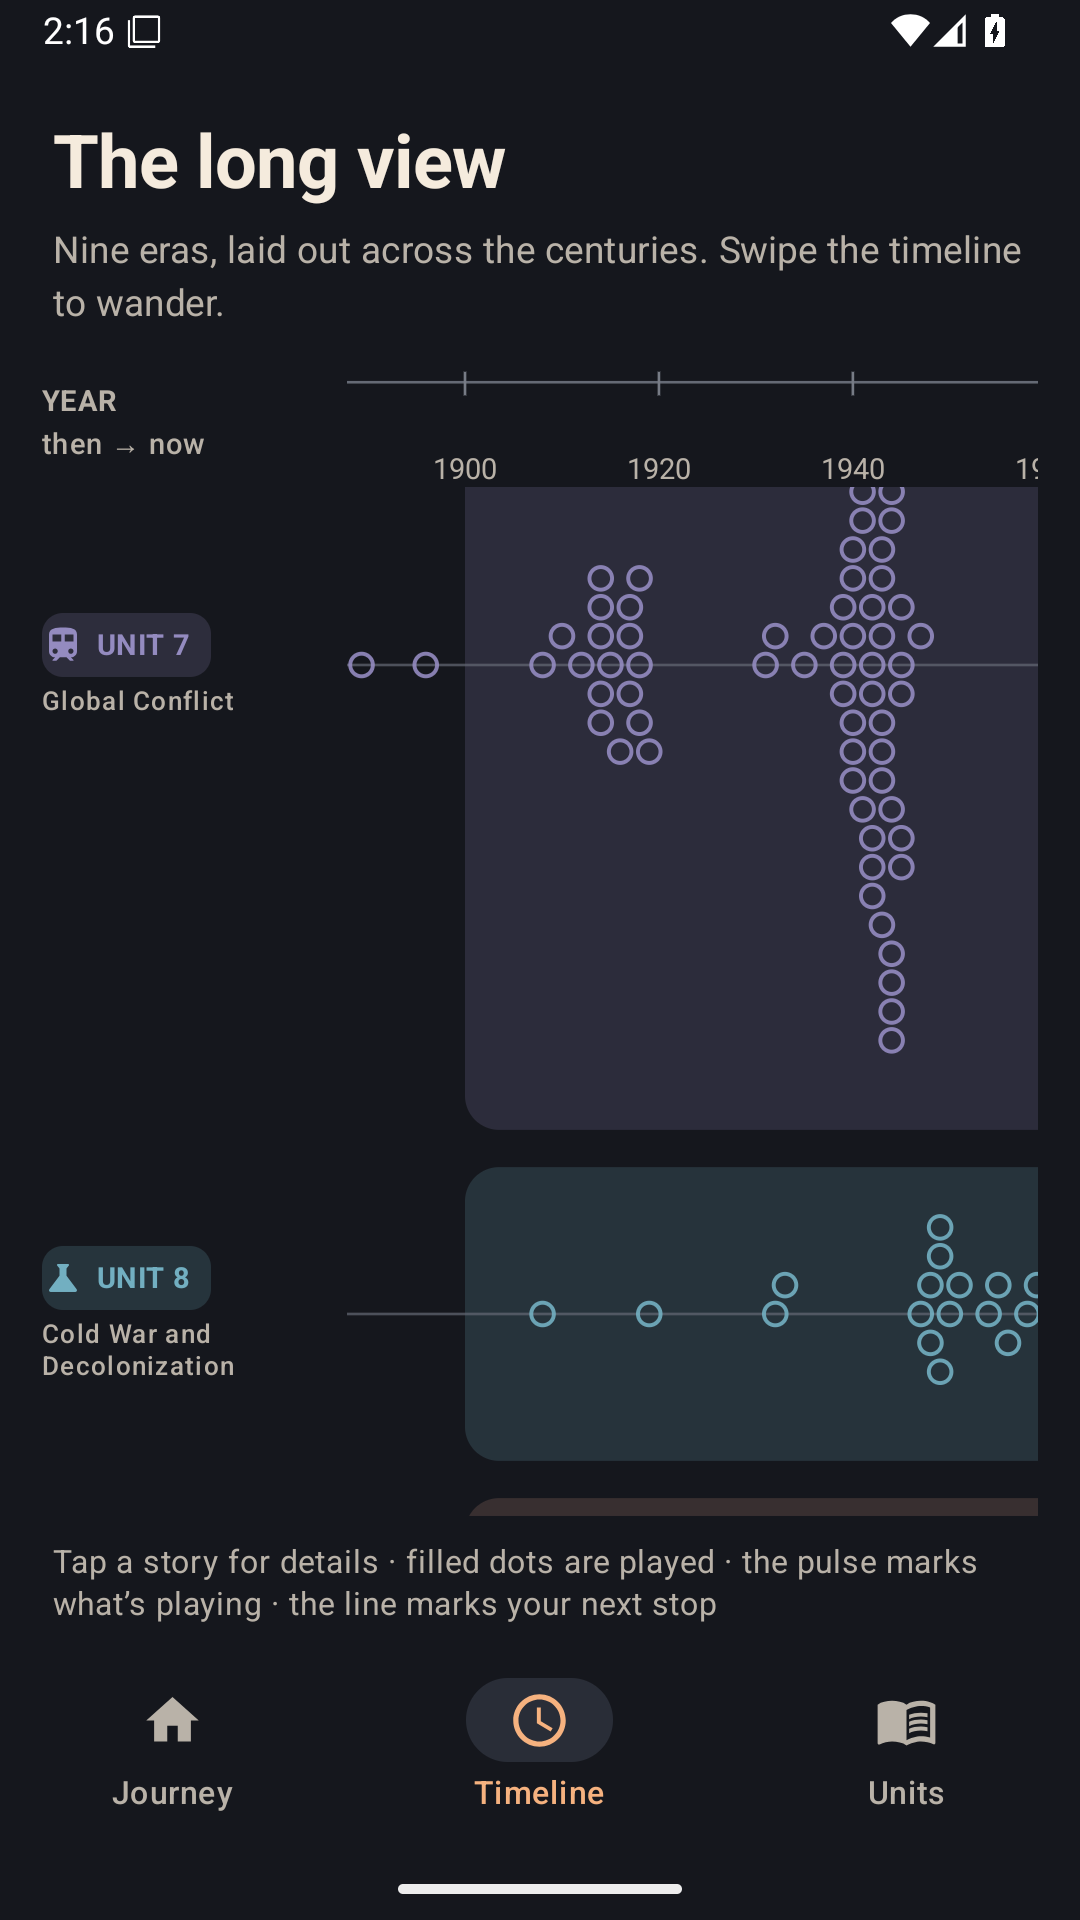
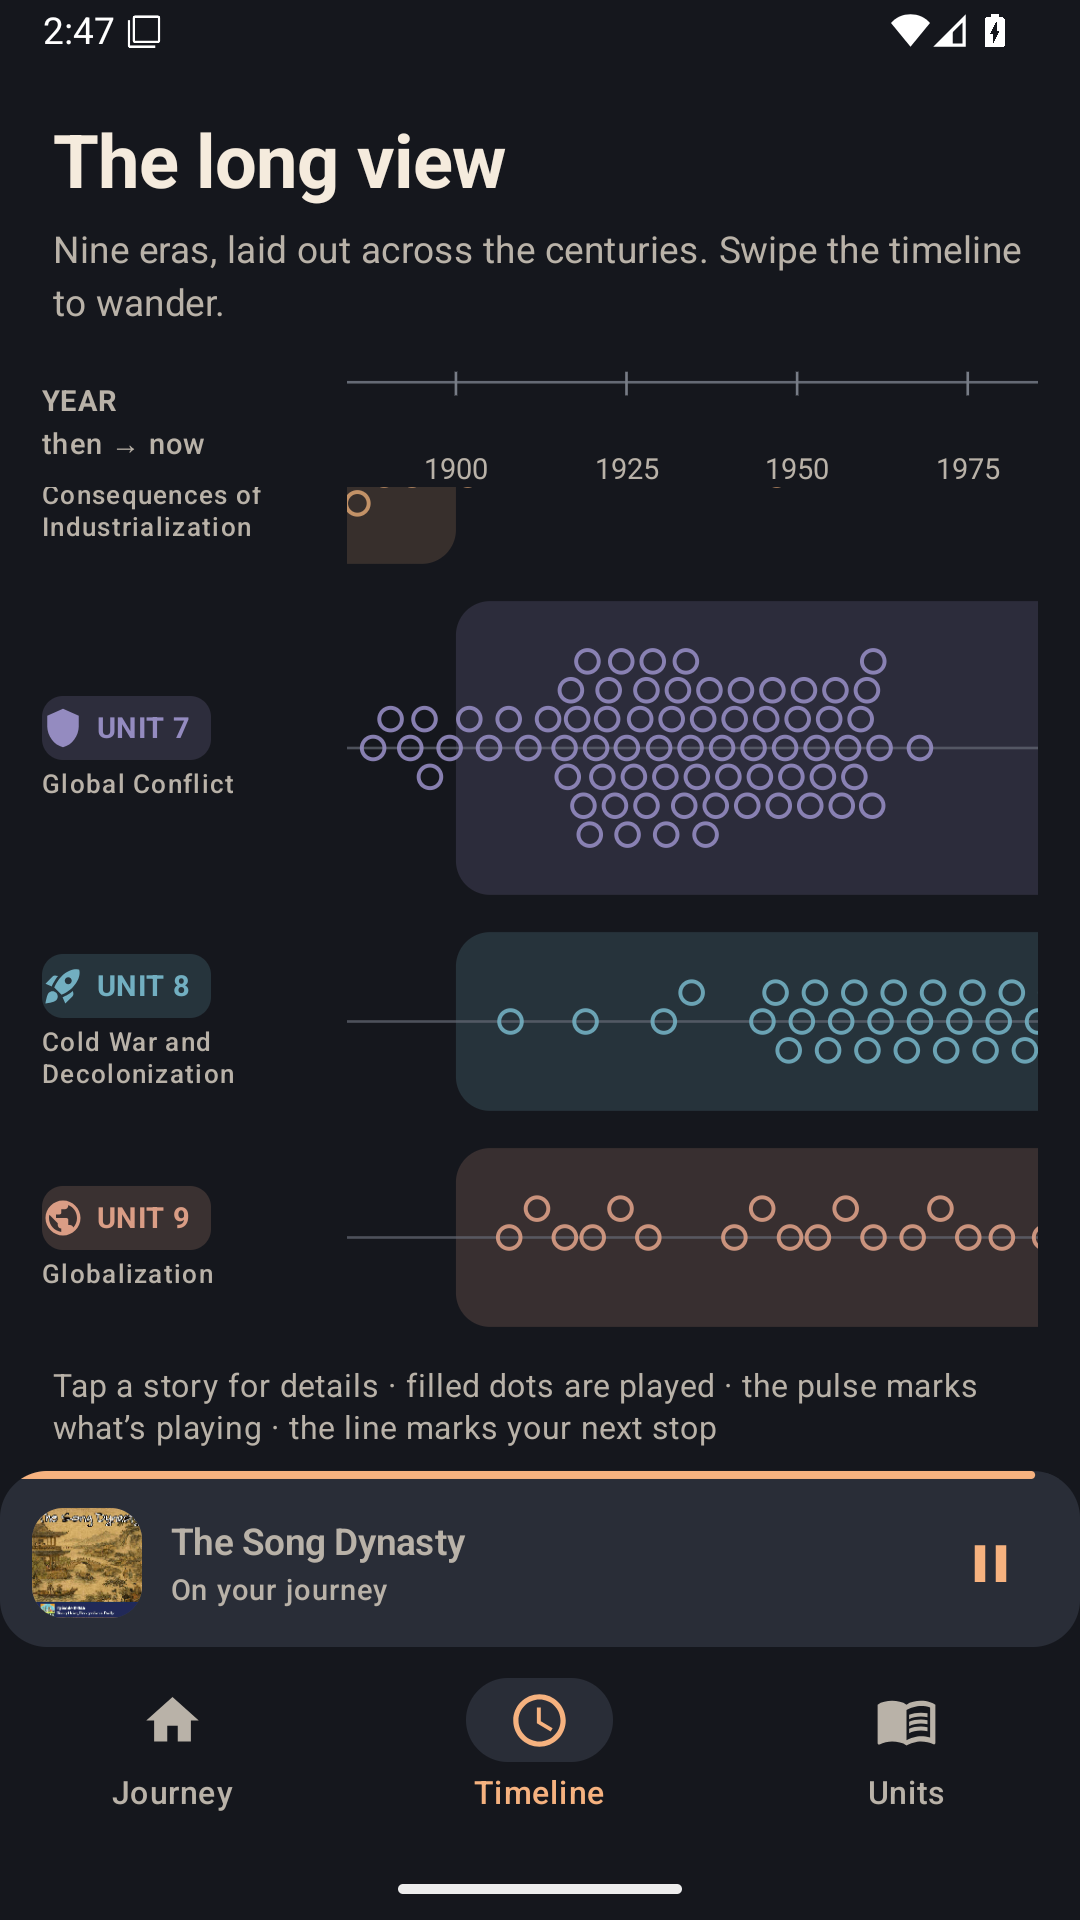
Polish timeline layout and screens

diff --git a/app/src/main/java/com/eetimeline/ui/screens/TimelineScreen.kt b/app/src/main/java/com/eetimeline/ui/screens/TimelineScreen.kt
@@ -25,15 +25,15 @@ import androidx.compose.foundation.rememberScrollState
 import androidx.compose.foundation.verticalScroll
 import androidx.compose.material.icons.Icons
 import androidx.compose.material.icons.filled.AccountBalance
-import androidx.compose.material.icons.filled.Agriculture
 import androidx.compose.material.icons.filled.Castle
 import androidx.compose.material.icons.filled.Factory
-import androidx.compose.material.icons.filled.Lightbulb
+import androidx.compose.material.icons.filled.Flag
 import androidx.compose.material.icons.filled.MenuBook
+import androidx.compose.material.icons.filled.Public
 import androidx.compose.material.icons.filled.RocketLaunch
+import androidx.compose.material.icons.filled.Route
 import androidx.compose.material.icons.filled.Sailing
-import androidx.compose.material.icons.filled.Science
-import androidx.compose.material.icons.filled.Train
+import androidx.compose.material.icons.filled.Shield
 import androidx.compose.material3.Icon
 import androidx.compose.material3.MaterialTheme
 import androidx.compose.material3.Surface
@@ -125,6 +125,8 @@ fun TimelineScreen(
     var viewportWidthPx by remember { mutableStateOf(0) }
     val density = LocalDensity.current
     val plotPaddingPx = with(density) { PLOT_HORIZONTAL_PADDING.toPx() }
+    val jitterWindowPx = with(density) { 120.dp.toPx() }
+
     val dotSpacingPx = with(density) { (DOT_RADIUS * 2 + 2.dp).toPx() }
     val laneLayouts = remember(laneSources, scale, canvasPixelSize.width, density) {
         laneSources.map { (unit, episodes) ->
@@ -137,6 +139,7 @@ fun TimelineScreen(
                     width = canvasPixelSize.width.toFloat(),
                     horizontalPadding = plotPaddingPx,
                     minimumSpacing = dotSpacingPx,
+                    jitterWindow = jitterWindowPx,
                 )
             }
             val trackCount = dots.maxOfOrNull { it.track + 1 } ?: 1
@@ -416,22 +419,57 @@ private fun timelineDots(
     width: Float,
     horizontalPadding: Float,
     minimumSpacing: Float,
+    jitterWindow: Float,
 ): List<TimelineDot> {
     val orderedEpisodes = episodes.sortedBy { timelineX(it.approxYear, scale) }
+    val plotWidth = width - horizontalPadding * 2
+    val baseXs = FloatArray(orderedEpisodes.size) { index ->
+        horizontalPadding + timelineX(orderedEpisodes[index].approxYear, scale) * plotWidth
+    }
+    val spreadXs = FloatArray(orderedEpisodes.size)
+    var clusterStart = 0
+    while (clusterStart < orderedEpisodes.size) {
+        var clusterEnd = clusterStart + 1
+        while (
+            clusterEnd < orderedEpisodes.size &&
+            baseXs[clusterEnd] - baseXs[clusterEnd - 1] < minimumSpacing * 1.5f &&
+            baseXs[clusterEnd] - baseXs[clusterStart] < jitterWindow
+        ) {
+            clusterEnd++
+        }
+        val clusterSize = clusterEnd - clusterStart
+        if (clusterSize == 1) {
+            spreadXs[clusterStart] = baseXs[clusterStart]
+        } else {
+            val clusterFirstX = baseXs[clusterStart]
+            val clusterLastX = baseXs[clusterEnd - 1]
+            val actualSpread = clusterLastX - clusterFirstX
+            val desiredSpread = minOf(jitterWindow, minimumSpacing * (clusterSize - 1))
+            val spread = maxOf(actualSpread, desiredSpread).coerceAtMost(plotWidth)
+            val center = (clusterFirstX + clusterLastX) / 2f
+            val spreadStart = (center - spread / 2f)
+                .coerceIn(horizontalPadding, width - horizontalPadding - spread)
+            val spreadIntervals = (clusterSize - 1).toFloat()
+            for (index in clusterStart until clusterEnd) {
+                spreadXs[index] = spreadStart + spread * (index - clusterStart) / spreadIntervals
+            }
+        }
+        clusterStart = clusterEnd
+    }
+
+    val orderedIndexes = orderedEpisodes.indices.sortedBy { spreadXs[it] }
     val trackLastX = FloatArray(orderedEpisodes.size)
     var trackCount = 0
     val dots = ArrayList<TimelineDot>(orderedEpisodes.size)
-    val plotWidth = width - horizontalPadding * 2
-
-    for (episode in orderedEpisodes) {
-        val x = horizontalPadding + timelineX(episode.approxYear, scale) * plotWidth
+    for (index in orderedIndexes) {
+        val x = spreadXs[index]
         var track = 0
         while (track < trackCount && x - trackLastX[track] < minimumSpacing) {
             track++
         }
         if (track == trackCount) trackCount++
         trackLastX[track] = x
-        dots.add(TimelineDot(episode, x, track))
+        dots.add(TimelineDot(orderedEpisodes[index], x, track))
     }
     return dots
 }
@@ -457,6 +495,9 @@ private fun adaptiveTimelineTicks(
 ): List<Int> {
     val anchors = intArrayOf(
         scale.earliestYear,
+        -3_000,
+        1,
+        1_000,
         1_200,
         1_450,
         1_750,
@@ -476,7 +517,7 @@ private fun adaptiveTimelineTicks(
         val step = niceSteps.firstOrNull { it >= targetYearStep } ?: niceSteps.last()
         var year = ceil(start.toDouble() / step).toInt() * step
         while (year < end) {
-            candidates.add(year)
+            if (year != 0) candidates.add(year)
             year += step
         }
     }
@@ -491,17 +532,23 @@ private fun adaptiveTimelineTicks(
     return selected
 }
 
-private fun yearLabel(year: Int): String = if (year < 0) "${-year} BCE" else year.toString()
+private fun yearLabel(year: Int): String = when {
+    year < 0 -> "${-year} BCE"
+    year == 0 -> "1 BCE"
+    year == 1 -> "1 CE"
+    else -> year.toString()
+}
+
 private fun timelineEraIcon(unitNumber: Int): ImageVector = when (unitNumber) {
-    1 -> Icons.Filled.Agriculture
-    2 -> Icons.Filled.AccountBalance
+    1 -> Icons.Filled.AccountBalance
+    2 -> Icons.Filled.Route
     3 -> Icons.Filled.Castle
     4 -> Icons.Filled.Sailing
-    5 -> Icons.Filled.Lightbulb
+    5 -> Icons.Filled.Flag
     6 -> Icons.Filled.Factory
-    7 -> Icons.Filled.Train
-    8 -> Icons.Filled.Science
-    9 -> Icons.Filled.RocketLaunch
+    7 -> Icons.Filled.Shield
+    8 -> Icons.Filled.RocketLaunch
+    9 -> Icons.Filled.Public
     else -> Icons.Filled.MenuBook
 }
 

diff --git a/app/src/main/java/com/eetimeline/ui/screens/UnitsScreen.kt b/app/src/main/java/com/eetimeline/ui/screens/UnitsScreen.kt
@@ -19,16 +19,16 @@ import androidx.compose.foundation.shape.RoundedCornerShape
 import androidx.compose.material.icons.Icons
 import androidx.compose.material.icons.filled.ArrowForward
 import androidx.compose.material.icons.filled.AccountBalance
-import androidx.compose.material.icons.filled.Agriculture
 import androidx.compose.material.icons.filled.Castle
 import androidx.compose.material.icons.filled.CheckCircle
 import androidx.compose.material.icons.filled.Factory
-import androidx.compose.material.icons.filled.Lightbulb
+import androidx.compose.material.icons.filled.Flag
 import androidx.compose.material.icons.filled.MenuBook
+import androidx.compose.material.icons.filled.Public
 import androidx.compose.material.icons.filled.RocketLaunch
+import androidx.compose.material.icons.filled.Route
 import androidx.compose.material.icons.filled.Sailing
-import androidx.compose.material.icons.filled.Science
-import androidx.compose.material.icons.filled.Train
+import androidx.compose.material.icons.filled.Shield
 import androidx.compose.material3.Card
 import androidx.compose.material3.CardDefaults
 import androidx.compose.material3.MaterialTheme
@@ -45,6 +45,7 @@ import androidx.compose.ui.unit.dp
 import com.eetimeline.core.Curriculum
 import com.eetimeline.core.CurriculumUnit
 import com.eetimeline.ui.EpisodeProgress
+import com.eetimeline.ui.components.MINI_PLAYER_HEIGHT
 import com.eetimeline.ui.theme.MutedCream
 import com.eetimeline.ui.theme.SurfaceRaised
 import com.eetimeline.ui.theme.unitColor
@@ -57,7 +58,7 @@ fun UnitsScreen(
 ) {
     LazyColumn(
         modifier = Modifier.fillMaxSize(),
-        contentPadding = androidx.compose.foundation.layout.PaddingValues(start = 20.dp, end = 20.dp, top = 20.dp, bottom = 24.dp),
+        contentPadding = androidx.compose.foundation.layout.PaddingValues(start = 20.dp, end = 20.dp, top = 20.dp, bottom = 24.dp + MINI_PLAYER_HEIGHT),
         verticalArrangement = Arrangement.spacedBy(14.dp),
     ) {
         item {
@@ -143,14 +144,14 @@ private fun UnitCard(
     }
 }
 private fun eraIcon(unitNumber: Int): ImageVector = when (unitNumber) {
-    1 -> Icons.Filled.Agriculture
-    2 -> Icons.Filled.AccountBalance
+    1 -> Icons.Filled.AccountBalance
+    2 -> Icons.Filled.Route
     3 -> Icons.Filled.Castle
     4 -> Icons.Filled.Sailing
-    5 -> Icons.Filled.Lightbulb
+    5 -> Icons.Filled.Flag
     6 -> Icons.Filled.Factory
-    7 -> Icons.Filled.Train
-    8 -> Icons.Filled.Science
-    9 -> Icons.Filled.RocketLaunch
+    7 -> Icons.Filled.Shield
+    8 -> Icons.Filled.RocketLaunch
+    9 -> Icons.Filled.Public
     else -> Icons.Filled.MenuBook
 }

diff --git a/app/src/test/java/com/eetimeline/core/CurriculumLogicTest.kt b/app/src/test/java/com/eetimeline/core/CurriculumLogicTest.kt
@@ -79,39 +79,40 @@ class CurriculumLogicTest {
     @Test
     fun densityBalancedTimelinePlacesKnotsByEpisodeCounts() {
         val episodeYears = listOf(
-            -8_000, -1_000, 1_199, 1_199,
+            -8_000, -4_000, -1_000, 1, 500, 1_000, 1_199, 1_199,
             1_200, 1_449,
             1_450, 1_600, 1_749,
             1_750,
             1_900, 1_950, 2_000, 2_025, 2_025,
         )
+        val knotYears = listOf(-8_000, -3_000, 1, 1_000, 1_200, 1_450, 1_750, 1_900, 2_025)
+        val segmentCounts = intArrayOf(2, 1, 2, 3, 2, 3, 1, 5)
         val scale = timelineScale(episodeYears, 2_025)
-        val firstSegment = 0.06f + 0.7f * 4f / 15f
-        val secondKnot = firstSegment + 0.06f + 0.7f * 2f / 15f
-        val thirdKnot = secondKnot + 0.06f + 0.7f * 3f / 15f
-        val fourthKnot = thirdKnot + 0.06f + 0.7f / 15f
+        val distributableWidth = 1f - 0.07f * segmentCounts.size
+        var expectedPosition = 0f
 
-        assertEquals(0f, timelineX(-8_000, scale), 0.0001f)
-        assertEquals(firstSegment, timelineX(1_200, scale), 0.0001f)
-        assertEquals(secondKnot, timelineX(1_450, scale), 0.0001f)
-        assertEquals(thirdKnot, timelineX(1_750, scale), 0.0001f)
-        assertEquals(fourthKnot, timelineX(1_900, scale), 0.0001f)
-        assertEquals(1f, timelineX(2_025, scale), 0.0001f)
+        knotYears.forEachIndexed { index, year ->
+            assertEquals(expectedPosition, timelineX(year, scale), 0.0001f)
+            if (index < segmentCounts.size) {
+                expectedPosition += 0.07f + distributableWidth * segmentCounts[index] / episodeYears.size
+            }
+        }
     }
 
     @Test
     fun densityBalancedTimelineHasMinimumWidthAndContinuousKnotBoundaries() {
         val scale = timelineScale(listOf(-8_000, 2_025), 2_025)
-        val knotYears = listOf(-8_000, 1_200, 1_450, 1_750, 1_900, 2_025)
+        val knotYears = listOf(-8_000, -3_000, 1, 1_000, 1_200, 1_450, 1_750, 1_900, 2_025)
         val knotPositions = knotYears.map { timelineX(it, scale) }
 
         for (index in 0 until knotPositions.lastIndex) {
-            assertTrue(knotPositions[index + 1] - knotPositions[index] >= 0.0599f)
+            assertTrue(knotPositions[index + 1] - knotPositions[index] >= 0.0699f)
         }
         for (year in knotYears.drop(1).dropLast(1)) {
             assertTrue(timelineX(year - 1, scale) < timelineX(year, scale))
             assertTrue(timelineX(year, scale) < timelineX(year + 1, scale))
         }
+        assertTrue(timelineX(1_200, scale) - timelineX(1_000, scale) >= 0.0699f)
     }
 
     @Test

diff --git a/app/src/main/java/com/eetimeline/core/CurriculumLogic.kt b/app/src/main/java/com/eetimeline/core/CurriculumLogic.kt
@@ -1,12 +1,15 @@
 package com.eetimeline.core
 
 private const val FIRST_TIMELINE_YEAR = -8_000
+private const val PREHISTORY_BOUNDARY = -3_000
+private const val COMMON_ERA_START = 1
+private const val FIRST_MILLENNIUM_BOUNDARY = 1_000
 private const val FIRST_ERA_BOUNDARY = 1_200
 private const val SECOND_ERA_BOUNDARY = 1_450
 private const val THIRD_ERA_BOUNDARY = 1_750
 private const val FOURTH_ERA_BOUNDARY = 1_900
-private const val TIMELINE_SEGMENT_COUNT = 5
-private const val MIN_TIMELINE_SEGMENT_WIDTH = 0.06f
+private const val TIMELINE_SEGMENT_COUNT = 8
+private const val MIN_TIMELINE_SEGMENT_WIDTH = 0.07f
 private const val PLAYED_THRESHOLD_MS = 30_000L
 private const val SLEEP_FADE_DURATION_MS = 30_000L
 
@@ -57,8 +60,7 @@ fun Curriculum.nextUnplayedAfter(currentId: String, playedIds: Set<String>): Str
 }
 
 /**
- * Piecewise-linear timeline coordinates weighted by the curriculum's episode density.
- * Every era segment receives at least 6% of the width; the rest is shared by episode count.
+ * Every timeline interval gets at least 7% of the width; the remainder is shared by episode count.
  */
 class TimelineScale private constructor(
     val earliestYear: Int,
@@ -96,6 +98,9 @@ fun timelineScale(episodeYears: List<Int>, presentYear: Int): TimelineScale {
     val boundedPresentYear = maxOf(FOURTH_ERA_BOUNDARY + 1, presentYear)
     val knotYears = intArrayOf(
         earliestYear,
+        PREHISTORY_BOUNDARY,
+        COMMON_ERA_START,
+        FIRST_MILLENNIUM_BOUNDARY,
         FIRST_ERA_BOUNDARY,
         SECOND_ERA_BOUNDARY,
         THIRD_ERA_BOUNDARY,
@@ -105,11 +110,14 @@ fun timelineScale(episodeYears: List<Int>, presentYear: Int): TimelineScale {
     val episodeCounts = IntArray(TIMELINE_SEGMENT_COUNT)
     for (year in episodeYears) {
         val segment = when {
-            year < FIRST_ERA_BOUNDARY -> 0
-            year < SECOND_ERA_BOUNDARY -> 1
-            year < THIRD_ERA_BOUNDARY -> 2
-            year < FOURTH_ERA_BOUNDARY -> 3
-            else -> 4
+            year < PREHISTORY_BOUNDARY -> 0
+            year < COMMON_ERA_START -> 1
+            year < FIRST_MILLENNIUM_BOUNDARY -> 2
+            year < FIRST_ERA_BOUNDARY -> 3
+            year < SECOND_ERA_BOUNDARY -> 4
+            year < THIRD_ERA_BOUNDARY -> 5
+            year < FOURTH_ERA_BOUNDARY -> 6
+            else -> 7
         }
         episodeCounts[segment]++
     }

diff --git a/app/src/main/java/com/eetimeline/ui/components/MiniPlayer.kt b/app/src/main/java/com/eetimeline/ui/components/MiniPlayer.kt
@@ -29,6 +29,8 @@ import com.eetimeline.ui.PlaybackUiState
 import com.eetimeline.ui.theme.Apricot
 import com.eetimeline.ui.theme.MutedCream
 
+internal val MINI_PLAYER_HEIGHT = 67.dp
+
 @Composable
 fun MiniPlayer(
     title: String,
@@ -38,7 +40,7 @@ fun MiniPlayer(
     onPlayPause: () -> Unit,
 ) {
     val fraction = if (playback.durationMs <= 0L) 0f else (playback.positionMs.toFloat() / playback.durationMs).coerceIn(0f, 1f)
-    Surface(color = MaterialTheme.colorScheme.surfaceVariant, shape = RoundedCornerShape(18.dp), modifier = Modifier.fillMaxWidth().clickable(onClick = onOpen)) {
+    Surface(color = MaterialTheme.colorScheme.surfaceVariant, shape = RoundedCornerShape(18.dp), modifier = Modifier.fillMaxWidth().height(MINI_PLAYER_HEIGHT).clickable(onClick = onOpen)) {
         androidx.compose.foundation.layout.Column {
             LinearProgressIndicator(
                 progress = { fraction },

diff --git a/app/src/main/java/com/eetimeline/ui/screens/JourneyScreen.kt b/app/src/main/java/com/eetimeline/ui/screens/JourneyScreen.kt
@@ -38,6 +38,7 @@ import com.eetimeline.core.Episode
 import com.eetimeline.core.orderedEpisodeIds
 import com.eetimeline.ui.EpisodeProgress
 import com.eetimeline.ui.PlaybackUiState
+import com.eetimeline.ui.components.MINI_PLAYER_HEIGHT
 import com.eetimeline.ui.components.EpisodeRow
 import com.eetimeline.ui.theme.Apricot
 import com.eetimeline.ui.theme.MutedCream
@@ -76,7 +77,7 @@ fun JourneyScreen(
 
     LazyColumn(
         modifier = Modifier.fillMaxSize(),
-        contentPadding = androidx.compose.foundation.layout.PaddingValues(start = 20.dp, end = 20.dp, top = 20.dp, bottom = 24.dp),
+        contentPadding = androidx.compose.foundation.layout.PaddingValues(start = 20.dp, end = 20.dp, top = 20.dp, bottom = 24.dp + MINI_PLAYER_HEIGHT),
         verticalArrangement = Arrangement.spacedBy(18.dp),
     ) {
         item {

diff --git a/app/src/main/java/com/eetimeline/ui/screens/UnitDetailScreen.kt b/app/src/main/java/com/eetimeline/ui/screens/UnitDetailScreen.kt
@@ -30,6 +30,7 @@ import com.eetimeline.core.CurriculumUnit
 import com.eetimeline.core.Episode
 import com.eetimeline.ui.EpisodeProgress
 import com.eetimeline.ui.PlaybackUiState
+import com.eetimeline.ui.components.MINI_PLAYER_HEIGHT
 import com.eetimeline.ui.components.EpisodeRow
 import com.eetimeline.ui.theme.MutedCream
 import com.eetimeline.ui.theme.SurfaceRaised
@@ -56,7 +57,7 @@ fun UnitDetailScreen(
         )
         LazyColumn(
             modifier = Modifier.weight(1f),
-            contentPadding = PaddingValues(start = 20.dp, end = 20.dp, top = 8.dp, bottom = 24.dp),
+            contentPadding = PaddingValues(start = 20.dp, end = 20.dp, top = 8.dp, bottom = 24.dp + MINI_PLAYER_HEIGHT),
             verticalArrangement = Arrangement.spacedBy(12.dp),
         ) {
             item {

diff --git a/app/src/main/java/com/eetimeline/ui/components/EpisodeRow.kt b/app/src/main/java/com/eetimeline/ui/components/EpisodeRow.kt
@@ -68,7 +68,7 @@ fun EpisodeRow(
         }
         observedPlayed = isPlayed
     }
-    val partialProgress = if (isPlayed || positionMs <= 0L || episode.durationSec <= 0) {
+    val partialProgress = if (positionMs <= 0L || episode.durationSec <= 0) {
         0f
     } else {
         (positionMs.toFloat() / (episode.durationSec.toLong() * 1000f)).coerceIn(0f, 0.99f)
@@ -115,7 +115,7 @@ fun EpisodeRow(
                 style = MaterialTheme.typography.labelMedium,
                 color = if (downloadInProgress) Apricot else MutedCream,
             )
-            if (partialProgress > 0f) {
+            if (!isPlayed && partialProgress > 0f) {
                 Spacer(Modifier.height(5.dp))
                 LinearProgressIndicator(
                     progress = { partialProgress },
